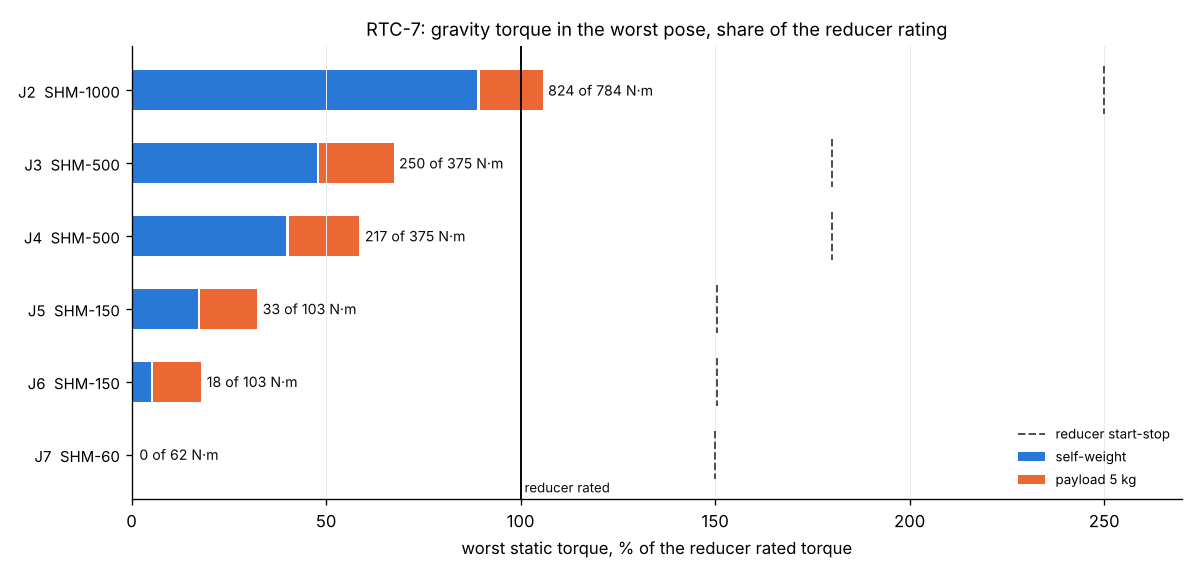
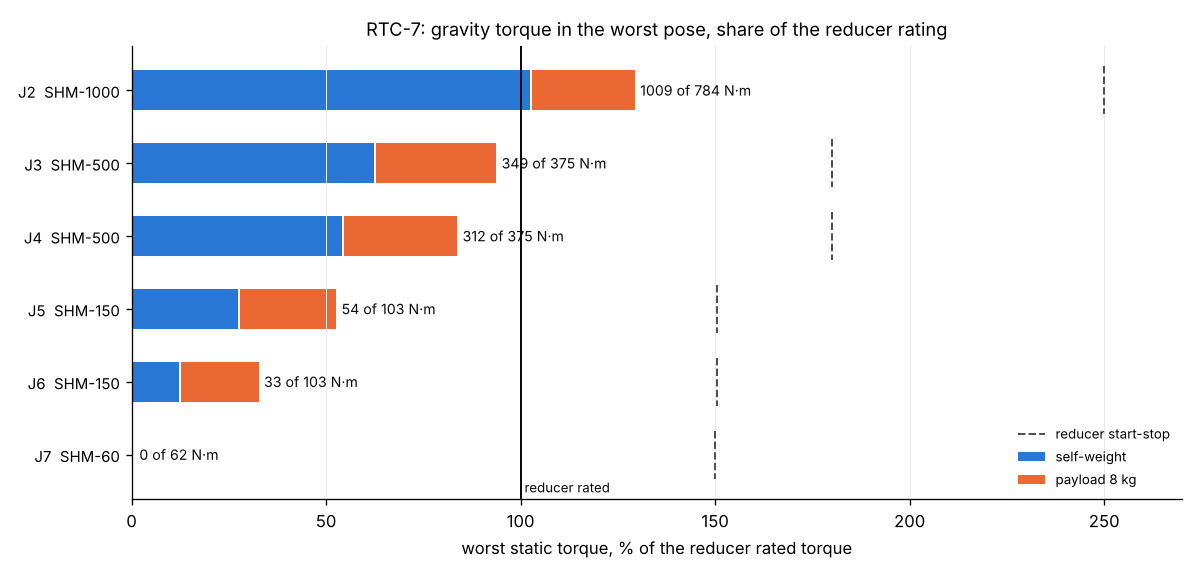
Statics with the 4 kg tool interface and 8 kg payload; first static payload zone map
Claude-Session: https://claude.ai/code/session_01T1NEmM8t24YJBEFNnKwD2z

diff --git a/robot/RTC-7-statics.md b/robot/RTC-7-statics.md
@@ -1,7 +1,7 @@
 # RTC-7: static gravity torques (`python tools/robot_statics.py robot/RTC-7-layout.txt`)
 
 Gravity only (no accelerations), worst pose over all angles of J2..J7 (no joint limits yet).
-Payload centre of mass 100 mm beyond the flange. Reducer efficiency eta = 0.8.
+Tool-change interface 4 kg always on the flange (COM 30 mm out); payload COM 100 mm beyond the flange. Reducer efficiency eta = 0.8.
 
 ## Mass model
 
@@ -28,32 +28,39 @@ Payload centre of mass 100 mm beyond the flange. Reducer efficiency eta = 0.8.
 | link 5 fitting (low) | 1.00 | link 5 |
 | link 5 fitting (high) | 1.00 | link 5 |
 | link 6 bracket | 0.80 | link 6 |
-| **total moving above J2** | **76.1** | |
+| tool interface | 4.00 | link 7 |
+| **total moving above J2** | **80.1** | |
 
 - SHM-1000: reducer mass not in the catalog, ESTIMATED 17.3 kg (steel x 0.6)
 - links are ASSUMED (aluminium tubes and fittings, `LINKS` in the script) until they are designed
 
 ## Worst static torques
 
-| Joint | Drive | Self-weight, N·m | Per 1 kg payload, N·m/kg | With 5 kg, N·m | Reducer rated / start-stop, N·m | Payload at rated torque, kg | Ratio needed (motor rated) |
+| Joint | Drive | Self-weight, N·m | Per 1 kg payload, N·m/kg | With 8 kg, N·m | Reducer rated / start-stop, N·m | Payload at rated torque, kg | Ratio needed (motor rated) |
 |---|---|---|---|---|---|---|---|
 | J1 | SHM-150m | 0 | 0.0 | 0 | 103 / 155 | - | - |
-| J2 | SHM-1000 | 697 | 27.3 | 824 | 784 / 1960 | 3.2 | 114 -> 121 (n_out 3 rpm) |
-| J3 | SHM-500 | 179 | 14.2 | 250 | 375 / 675 | 13.8 | 57 -> 59 (n_out 24 rpm) |
-| J4 | SHM-500 | 149 | 14.0 | 217 | 375 / 675 | 16.1 | 49 -> 59 (n_out 24 rpm) |
-| J5 | SHM-150 | 18 | 2.8 | 33 | 103 / 155 | 31.0 | 28 -> 29 (n_out 84 rpm) |
-| J6 | SHM-150 | 5 | 2.6 | 18 | 103 / 155 | 38.3 | 15 -> 21 (n_out 116 rpm) |
+| J2 | SHM-1000 | 803 | 27.3 | 1009 | 784 / 1960 | -0.7 | 140 -> 153 (n_out 3 rpm) |
+| J3 | SHM-500 | 234 | 14.3 | 349 | 375 / 675 | 9.9 | 79 -> 99 (n_out 14 rpm) |
+| J4 | SHM-500 | 202 | 14.0 | 312 | 375 / 675 | 12.3 | 71 -> 79 (n_out 18 rpm) |
+| J5 | SHM-150 | 28 | 3.0 | 54 | 103 / 155 | 24.6 | 46 -> 49 (n_out 50 rpm) |
+| J6 | SHM-150 | 13 | 2.6 | 33 | 103 / 155 | 35.3 | 28 -> 29 (n_out 84 rpm) |
 | J7 | SHM-60 | 0 | 0.0 | 0 | 62 / 93 | - | - |
 
-Static payload limit at the reducer rated torque: **3.2 kg**, set by J2.
+Static payload limit at the reducer rated torque: **-0.7 kg**, set by J2.
 J1 axis is vertical: no gravity torque, it carries only the inertia (and the ОПУ takes the tilting moment).
 Dynamic loads (accelerations) come on top; start-stop torque is the catalog limit for them.
 
 Worst poses (deg, J1..J7):
 
 - J2: 0, 82, 90, -0, -180, 0, -61
-- J3: 0, 90, -124, -90, 180, -0, 61
+- J3: 0, 90, -121, -90, 180, 1, 61
 - J4: 0, -2, -180, -85, 90, 0, -172
-- J5: 0, -13, -172, -102, 18, 90, 144
+- J5: 0, 95, 180, 5, -153, 90, 53
 - J6: 0, 90, 0, 0, 0, 0, 0
-- J7: 0, -37, -159, 71, 77, -72, -94
+- J7: 0, 67, 138, -25, 139, 73, 144
+
+## Payload zones (static, rated torques; poses in the arm plane, best configuration)
+
+- reach with 8 kg: flange up to 2166 mm from the J1 axis
+- full reach (any payload >= 0): 2614 mm
+- map: `robot/RTC-7-payload-zones.png`
